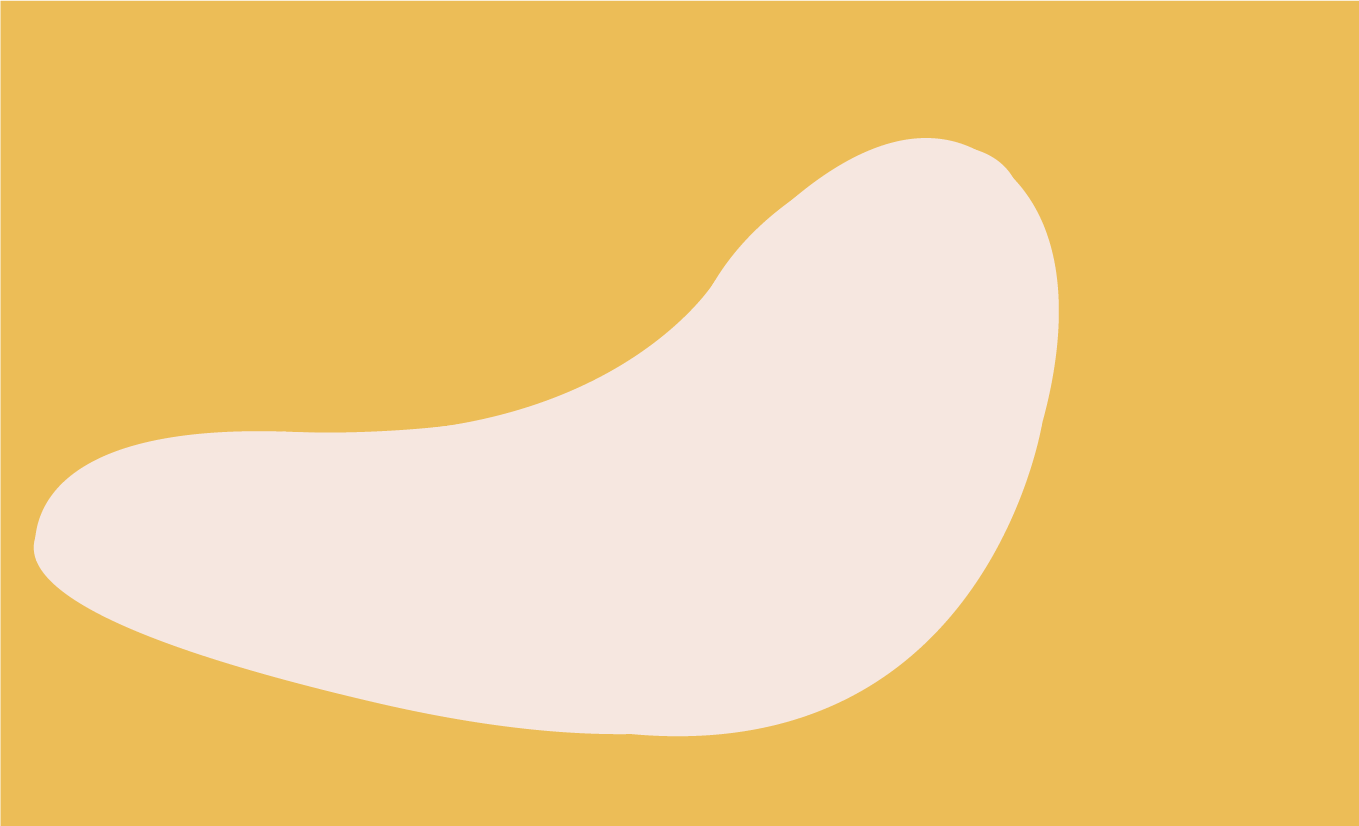
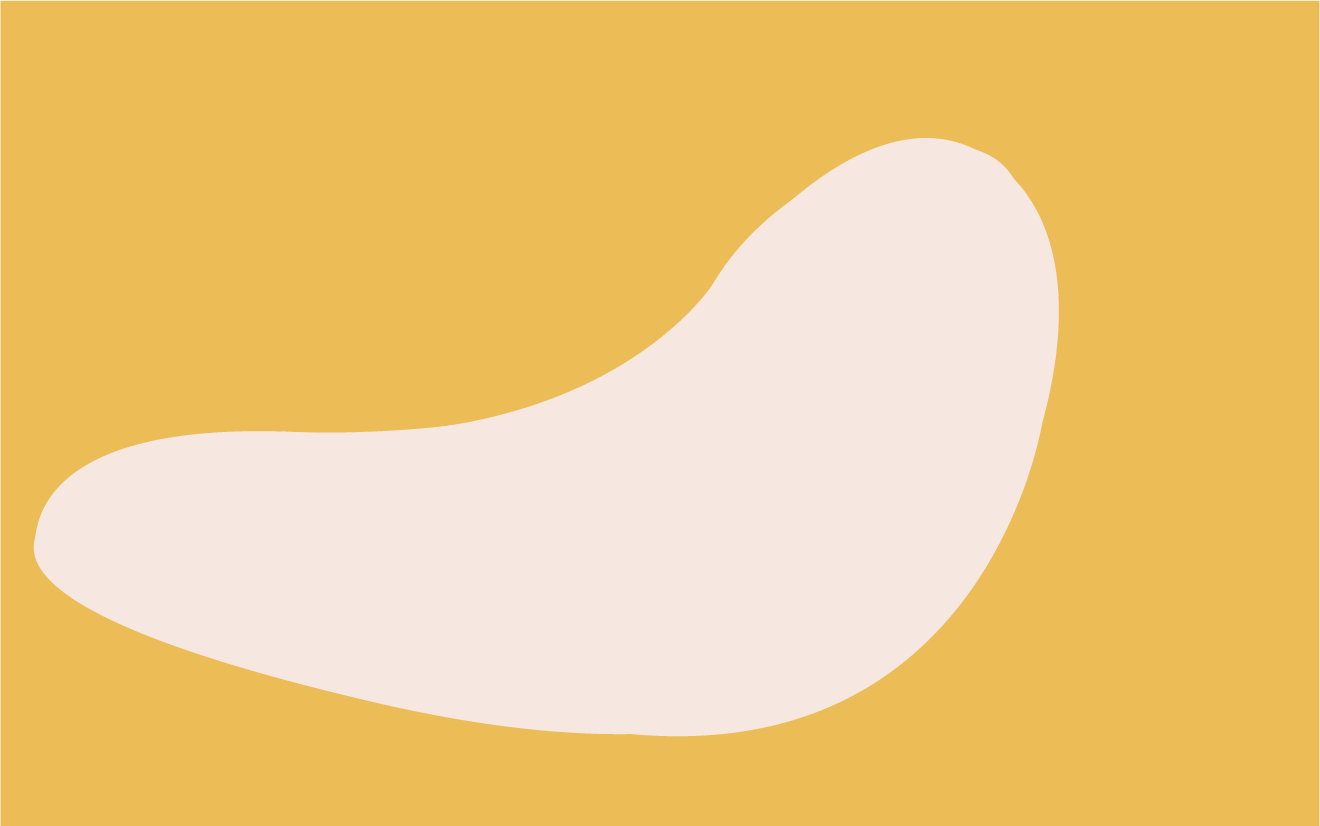
cambios de tamaños en servicios

diff --git a/secciones/servicios.html b/secciones/servicios.html
@@ -42,6 +42,7 @@
   <main>
     <section>
       <div class="seccion1">
+        <img src="../imagenes/1.png" alt="">
       </div>
     </section>
     <section>

diff --git a/sass/est.scss b/sass/est.scss
@@ -266,7 +266,9 @@ font-weight: 400;
             }
 
   }
-  
+  .seccion1{
+    background-image: url(../imagenes/1.png);
+  }
   
   /*contacto*/
 
